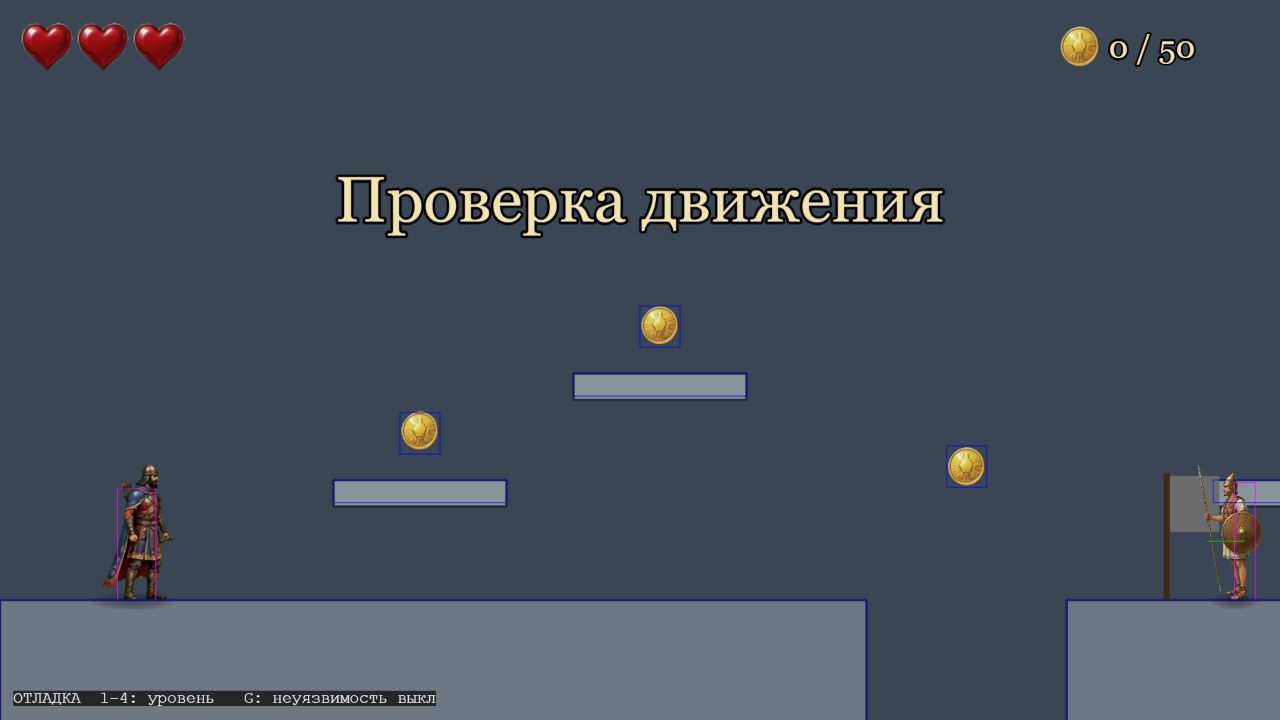
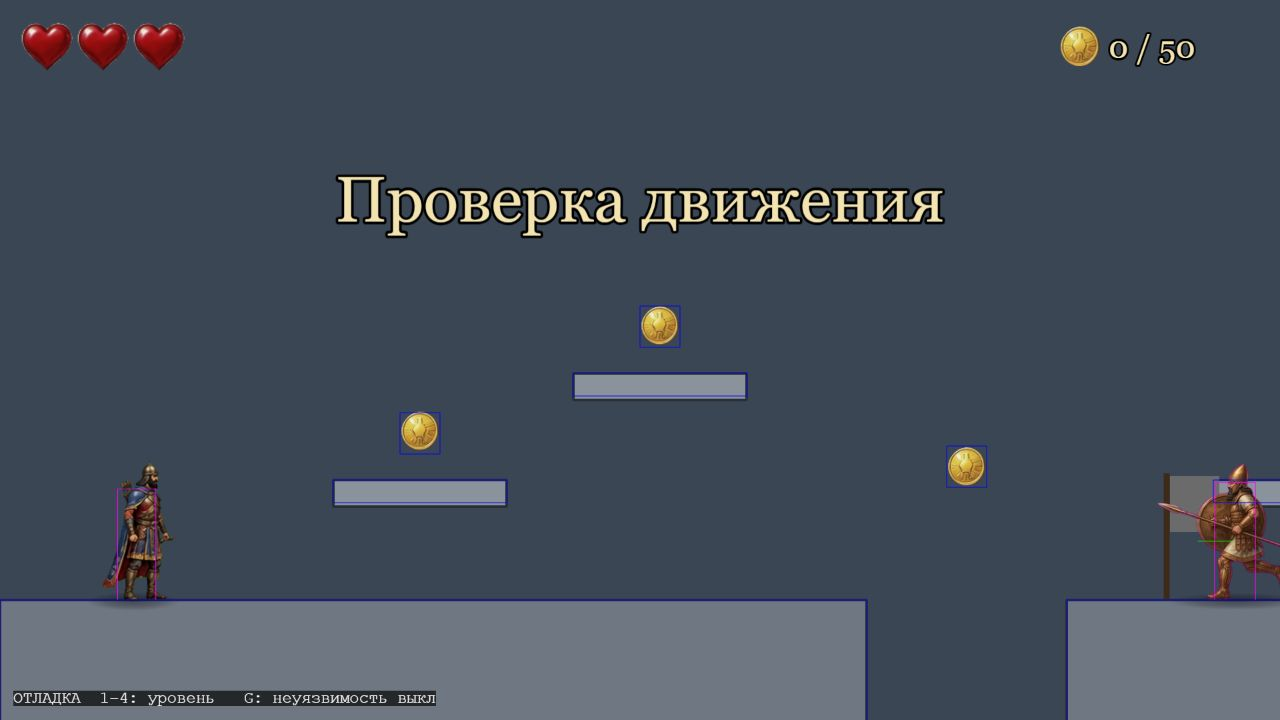
Анимация бега копейщика из листа на пурпурном фоне: фон вырезается и кадры выравниваются кодом

Changed region(s): [[0.9062, 0.6417, 1.0, 0.8556]]

diff --git a/src/sprites.js b/src/sprites.js
@@ -1,0 +1,102 @@
+// Листы анимаций, нарисованные на сплошном пурпурном фоне (#FF00FF).
+// При запуске игры код сам вырезает фон, находит фигуру в каждой ячейке и выравнивает кадры
+// по линии ног и по центру тела, чтобы персонаж не «прыгал» между кадрами.
+//
+// file — путь внутри public/assets; cols × rows — сетка ячеек на листе; frames — сколько кадров брать;
+// fps — скорость анимации; faces — куда смотрит персонаж на листе (1 — вправо, -1 — влево).
+export const SHEETS = {
+  'spearman-walk': { file: 'enemies/spearman-walk.webp', cols: 4, rows: 2, frames: 8, fps: 10, faces: 1 },
+};
+
+// сюда записываются размеры готовых кадров: figH — рост фигуры, W/H — размер кадра, baseline — линия ног
+export const SHEET_INFO = {};
+
+export function loadSheets(scene) {
+  for (const [key, s] of Object.entries(SHEETS)) scene.load.image('raw-' + key, 'assets/' + s.file);
+}
+
+// насколько пиксель «пурпурный»: 0 — нет, 1 — чистый фон
+function magenta(r, g, b) {
+  const m = (Math.min(r, b) - g - 40) / 110;
+  return m < 0 ? 0 : m > 1 ? 1 : m;
+}
+
+export function buildSheets(scene) {
+  for (const [key, s] of Object.entries(SHEETS)) {
+    if (!scene.textures.exists('raw-' + key)) continue;
+    const img = scene.textures.get('raw-' + key).getSourceImage();
+    const inset = 5; // отступ от края ячейки, чтобы не захватить линии сетки
+    const cw = Math.floor(img.width / s.cols) - inset * 2;
+    const ch = Math.floor(img.height / s.rows) - inset * 2;
+    const src = document.createElement('canvas');
+    src.width = img.width;
+    src.height = img.height;
+    const sg = src.getContext('2d', { willReadFrequently: true });
+    sg.drawImage(img, 0, 0);
+
+    const cells = [];
+    for (let f = 0; f < s.frames; f++) {
+      const cx0 = (f % s.cols) * Math.floor(img.width / s.cols) + inset;
+      const cy0 = Math.floor(f / s.cols) * Math.floor(img.height / s.rows) + inset;
+      const data = sg.getImageData(cx0, cy0, cw, ch);
+      const d = data.data;
+      let x0 = cw, x1 = 0, y0 = ch, y1 = 0, sum = 0, sumX = 0;
+      for (let y = 0; y < ch; y++) {
+        for (let x = 0; x < cw; x++) {
+          const i = (y * cw + x) * 4;
+          const k = magenta(d[i], d[i + 1], d[i + 2]);
+          // тёмные линии сетки у самого края ячейки тоже убираем
+          const edgeLine = (x < 4 || x > cw - 5 || y < 4 || y > ch - 5) && d[i] + d[i + 1] + d[i + 2] < 200;
+          const a = edgeLine ? 0 : 1 - k;
+          d[i + 3] = Math.round(a * 255);
+          if (k > 0 && a > 0) {
+            // убираем пурпурный отсвет по краям фигуры
+            const spill = Math.min(d[i], d[i + 2]) - d[i + 1];
+            if (spill > 0) {
+              d[i] -= spill * k;
+              d[i + 2] -= spill * k;
+            }
+          }
+          if (a > 0.5) {
+            if (x < x0) x0 = x;
+            if (x > x1) x1 = x;
+            if (y < y0) y0 = y;
+            if (y > y1) y1 = y;
+            // центр тела считаем по нижней половине кадра не нужно — берём все непрозрачные пиксели
+            sum++;
+            sumX += x;
+          }
+        }
+      }
+      const c = document.createElement('canvas');
+      c.width = cw;
+      c.height = ch;
+      c.getContext('2d').putImageData(data, 0, 0);
+      cells.push({ c, x0, x1, y0, y1, cx: sum ? sumX / sum : cw / 2 });
+    }
+
+    // общий размер кадра: чтобы влезла самая широкая и самая высокая фигура
+    let left = 0, right = 0, figH = 0;
+    for (const c of cells) {
+      left = Math.max(left, c.cx - c.x0);
+      right = Math.max(right, c.x1 - c.cx);
+      figH = Math.max(figH, c.y1 - c.y0 + 1);
+    }
+    const pad = 4;
+    const W = Math.ceil(left + right) + pad * 2;
+    const H = figH + pad * 2;
+    const baseline = H - pad;
+    const out = document.createElement('canvas');
+    out.width = W * cells.length;
+    out.height = H;
+    const og = out.getContext('2d');
+    cells.forEach((c, f) => {
+      og.drawImage(c.c, Math.round(f * W + pad + left - c.cx), baseline - c.y1 - 1);
+    });
+
+    scene.textures.addSpriteSheet(key, out, { frameWidth: W, frameHeight: H });
+    scene.anims.create({ key, frames: scene.anims.generateFrameNumbers(key, { start: 0, end: cells.length - 1 }), frameRate: s.fps, repeat: -1 });
+    SHEET_INFO[key] = { figH, W, H, baseline, cx: pad + left, faces: s.faces };
+    scene.textures.remove('raw-' + key);
+  }
+}

diff --git a/src/entities/Enemy.js b/src/entities/Enemy.js
@@ -1,10 +1,11 @@
 import Phaser from 'phaser';
 import { ENEMY } from '../config.js';
+import { SHEET_INFO } from '../sprites.js';
 
 // Описание картинок: faces — куда смотрит исходная картинка, cx — где центр тела по ширине (доля),
 // bw/bh — размер хитбокса в долях картинки.
 const LOOK = {
-  spearman: { tex: 'spearman', faces: -1, cx: 0.68, bw: 0.34, bh: 0.86 },
+  spearman: { tex: 'spearman', faces: -1, cx: 0.68, bw: 0.34, bh: 0.86, sheet: 'spearman-walk' },
   archer: { tex: 'spearman', faces: -1, cx: 0.68, bw: 0.34, bh: 0.86, tint: 0x8ea4d6 },
   wolf: { tex: 'wolf-1', faces: 1, cx: 0.5, bw: 0.62, bh: 0.9 },
   boar: { tex: 'boar', faces: 1, cx: 0.5, bw: 0.66, bh: 0.9 },
@@ -15,13 +16,20 @@ const LOOK = {
 export default class Enemy extends Phaser.Physics.Arcade.Sprite {
   constructor(scene, d, range) {
     const look = LOOK[d.type];
-    super(scene, d.x, d.y, d.type === 'wolf' && d.x % 2 ? 'wolf-2' : look.tex);
+    // если для врага есть лист анимации — берём его, иначе одну картинку
+    const info = look.sheet ? SHEET_INFO[look.sheet] : null;
+    super(scene, d.x, d.y, info ? look.sheet : d.type === 'wolf' && d.x % 2 ? 'wolf-2' : look.tex);
+    this.info = info || null;
     scene.add.existing(this);
     scene.physics.add.existing(this);
     this.type = d.type;
     this.look = look;
     this.cfg = ENEMY[d.type];
-    this.setOrigin(0.5, 1).setScale(this.cfg.height / this.height).setDepth(45);
+    // размеры тела в пикселях кадра: ширина, высота, центр по ширине, линия ног, рост фигуры
+    this.geom = info
+      ? { w: info.figH * 0.3, h: info.figH * 0.86, cx: info.cx, bottom: info.baseline, figH: info.figH, faces: info.faces }
+      : { w: this.width * look.bw, h: this.height * look.bh, cx: this.width * look.cx, bottom: this.height, figH: this.height, faces: look.faces };
+    this.setOrigin(info ? info.cx / info.W : 0.5, this.geom.bottom / this.height).setScale(this.cfg.height / this.geom.figH).setDepth(45);
     this.baseTint = d.tint ?? look.tint ?? 0xffffff;
     this.setTint(this.baseTint);
     this.hp = this.cfg.hp ?? 1;
@@ -39,14 +47,12 @@ export default class Enemy extends Phaser.Physics.Arcade.Sprite {
 
   setFacing(dir) {
     this.dir = dir;
-    const flipped = dir !== this.look.faces;
+    const G = this.geom;
+    const flipped = dir !== G.faces;
     this.setFlipX(flipped);
-    const L = this.look;
-    const w = this.width * L.bw;
-    const h = this.height * L.bh;
-    const cx = this.width * (flipped ? 1 - L.cx : L.cx);
-    this.body.setSize(w, h);
-    this.body.setOffset(cx - w / 2, this.height - h);
+    const cx = flipped && !this.info ? this.width - G.cx : G.cx;
+    this.body.setSize(G.w, G.h);
+    this.body.setOffset(cx - G.w / 2, G.bottom - G.h);
   }
 
   sees(player, sight, dyMax = 170) {
@@ -177,7 +183,17 @@ export default class Enemy extends Phaser.Physics.Arcade.Sprite {
 
     // оживление без кадров анимации: покачивание и наклон
     const moving = Math.abs(this.body.velocity.x) > 10;
-    const bob = moving ? Math.sin(time * 0.016 + this.seed) * 3 : Math.sin(time * 0.003 + this.seed) * 0.8;
+    if (this.info) {
+      // настоящая анимация шага; чем быстрее враг, тем быстрее кадры
+      if (moving) {
+        this.anims.play(this.look.sheet, true);
+        this.anims.timeScale = Math.min(2.2, 0.6 + Math.abs(this.body.velocity.x) / 250);
+      } else if (this.anims.isPlaying) {
+        this.anims.stop();
+        this.setFrame(0);
+      }
+    }
+    const bob = this.info ? 0 : moving ? Math.sin(time * 0.016 + this.seed) * 3 : Math.sin(time * 0.003 + this.seed) * 0.8;
     this.lean += (lean - this.lean) * 0.2;
     this.setAngle((this.lean + bob) * this.dir);
     this.shadow.setPosition(this.x, this.y + 2);

diff --git a/src/scenes/Boot.js b/src/scenes/Boot.js
@@ -2,6 +2,7 @@ import Phaser from 'phaser';
 import { PARAMS } from '../params.js';
 import Sfx from '../audio/Sfx.js';
 import { STYLE } from '../config.js';
+import { loadSheets, buildSheets } from '../sprites.js';
 
 // Загружает общие ассеты (герой, враги, предметы) и рисует кодом служебные текстуры.
 export default class Boot extends Phaser.Scene {
@@ -16,11 +17,13 @@ export default class Boot extends Phaser.Scene {
     for (const k of ['coin', 'heart']) this.load.image(k, A + `pickups/${k}.png`);
     for (const k of ['spearman', 'bel', 'wolf-1', 'wolf-2', 'boar', 'bear', 'deer']) this.load.image(k, A + `enemies/${k}.png`);
     for (const k of ['wooden-stakes', 'iron-spikes', 'palisade']) this.load.image(k, A + `hazards/${k}.png`);
+    loadSheets(this);
   }
 
   create() {
     this.makeTextures();
     this.muteColors();
+    buildSheets(this);
     this.game.sfx = new Sfx(this.game);
     this.anims.create({ key: 'hayk-run', frames: this.anims.generateFrameNumbers('hayk', { frames: [1, 2, 3, 4, 5, 6, 7, 9, 10] }), frameRate: 14, repeat: -1 });
 

diff --git a/CLAUDE.md b/CLAUDE.md
@@ -132,5 +132,6 @@
 - `public/assets/hayots-dzor/hayots-front.png` (1376×768) — передний план уровня 4: валуны, щиты, сломанные копья рамкой
 - `public/assets/hayots-dzor/platforms/platform-01…12.png` — платформы уровня 4: скальные уступы, плиты, два деревянных помоста; сломанная повозка среди них — декорация, не платформа
 - `public/assets/enemies/spearman.png` (423×936) — копейщик Бела, смотрит влево. В игре высота около 205 px
+- `public/assets/enemies/spearman-walk.webp` (1024×572) — лист бега копейщика: 8 кадров сеткой 4×2 на пурпурном фоне, смотрит вправо. Фон вырезается и кадры выравниваются кодом при запуске (`src/sprites.js`); новые листы добавлять туда же, в `SHEETS`. Копейщик в игре берётся из этого листа, лучник пока остаётся на старой картинке `spearman.png`
 - `public/assets/enemies/bel.png` (801×947) — Бел, смотрит влево. В игре высота около 300 px (заметно крупнее Айка)
 Чего ещё нет — см. `docs/missing-assets.md`
